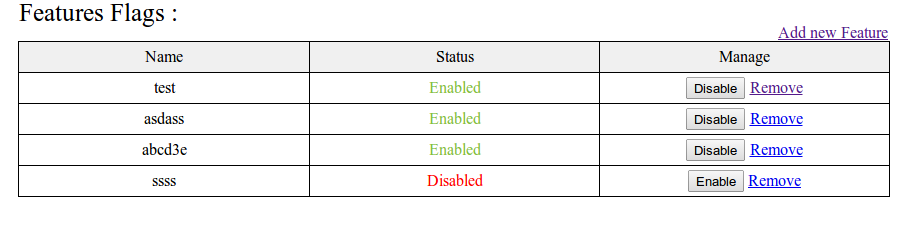
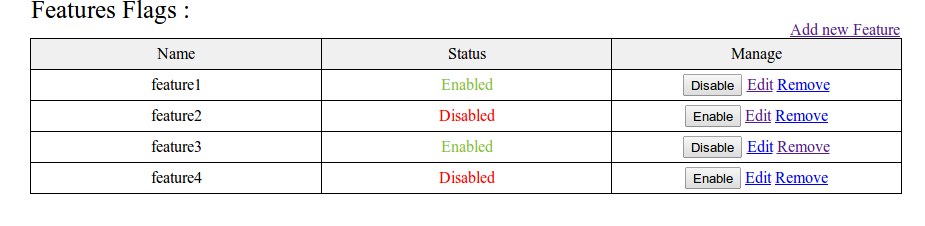
edit added

Changed region(s): [[0.0, 0.0929, 0.989, 0.8673], [0.0, 0.0, 0.2163, 0.1239]]

diff --git a/app/controllers/feature_flags_controller.rb b/app/controllers/feature_flags_controller.rb
@@ -9,6 +9,10 @@ class FeatureFlagsController < ApplicationController
     @feature = Feature.new
   end
 
+  def edit
+    @feature = Feature.find(params[:id])
+  end
+
   def create
     @features = Feature.all
     @feature = Feature.new(params[:feature])
